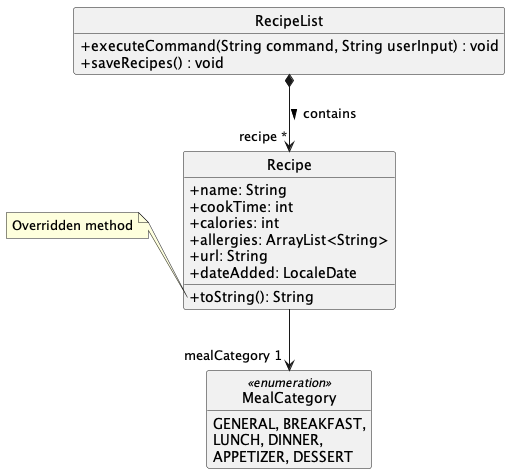
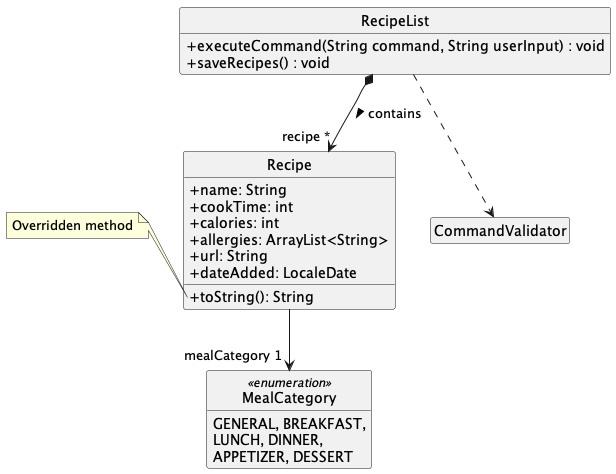
Add more class diagrams

diff --git a/docs/DeveloperGuide.md b/docs/DeveloperGuide.md
@@ -23,7 +23,7 @@
 
 ## Setting up, getting started
 
-Refer to the User guide at https://ay2324s2-cs2113-w14-2.github.io/tp/UserGuide.html for how to get started with RecipeIO.
+Refer to the [User guide](https://ay2324s2-cs2113-w14-2.github.io/tp/UserGuide.html) for how to get started with RecipeIO.
 
 ---
 
@@ -100,12 +100,73 @@ The `RecipeList` contains many `Recipe`s, which has attributes:
 How the component works:
 
 * Upon `executeCommand` call, the `RecipeList` will identify the command given in the user input (e.g. `list`), 
-* It will then call the corresponding `list()` method defined in `RecipeList`. 
-* This `list()` method in turn calls the `ListRecipeCommand.execute()` command. 
+* It will then call the corresponding `listRecipes()` method defined in `RecipeList`. 
+* This `listRecipes()` method will first call the `isValidListCommand` method in `CommandValidator` class.
+* If the command is valid, the `ListRecipeCommand.execute()` command is called. 
 * The reason for such a structure is to allow for command validation *before* the real execution. A good example is the `find()` command. 
 * Thus, `RecipeList` contains an intermediate method for each functionality (add, find, delete, so on) , and serves as a command validator.
   * **Note:** these methods have been omitted in the class diagram for brevity.
 * In `add()` and `delete()`, the `saveRecipes()` method is called to save the recipeBook after the modification.
+
+
+### InputParser Component
+
+The **API** of this component is specified in [InputParser.java](https://github.com/AY2324S2-CS2113-W14-2/tp/blob/master/src/main/java/recipeio/InputParser.java)
+
+![Structure of the InputParser Component](images/InputParserDiagram.png)
+
+The `InputParser` contains many static methods that are used to make sense of the user's input. Some important methods are:
+* `parseCommand(userInput)` : String 
+  * gets the command type from the user input. e.g. `add`, `delete`
+* `parseDetails(userInput)` : String[] 
+  * gets the parameters that the user gave in his or her input.
+  * for example, if the user inputs `find kw pasta`, the method will return `["kw", "pasta"]`
+* `parseMealCriteria(userInput)` : MealCategory
+   * checks which meal category the user inputted.
+
+How the component works:
+
+* The `InputParser` methods are called during command validation (see next Section for `CommandValidator` implementation)
+
+
+### CommandValidator Component
+
+The **API** of this component is specified in [CommandValidator.java](https://github.com/AY2324S2-CS2113-W14-2/tp/blob/master/src/main/java/recipeio/CommandValidator.java)
+
+![Structure of the CommandValidator Component](images/CommandValidatorDiagram.png)
+
+The `CommandValidator` contains many static methods that are used to validate the user's input. Some important methods are:
+* `isValidAddCommand(userInput)` : boolean
+* `isValidDetailCommand(userInput)` : boolean
+* `isValidDeleteCommand(userInput)` : boolean
+* `isValidFindCommand(userInput)` : boolean
+
+For example the `isValidDeleteCommand` will return `false` if one of the following happens.
+1. the user does not input an index to find. e.g. `delete`
+2. the user's inputted index is not a integer. e.g. `delete abc`
+3. the user inputs an index that is out of range. e.g. `delete -1`, or `delete 10` when there are only 3 recipes.
+
+How the component works:
+
+* The `CommandValidator` methods are called by methods in the `RecipeList` component to verify the user's input.
+* Methods in `InputParser` are called to make sense of the user's input.
+
+
+### Storage Component
+
+The **API** of this component is specified in [Storage.java](https://github.com/AY2324S2-CS2113-W14-2/tp/blob/master/src/main/java/recipeio/storage/Storage.java)
+
+![Structure of the Storage Component](images/StorageDiagram.png)
+
+The `Storage` class handles the saving and loading of data file (i.e. the recipe book). Some important methods are:
+* `saveFile(ArrayList<Recipe> recipeList))` : void
+* `loadData()` : void
+
+How the component works:
+
+* Upon start up of `RecipeIO`, an instance of `Storage` is created, and the app attempts to read an existing data file via the `loadData()` method.
+* If no file is found, the application will create one upon execution of `add` command.
+* The `list`, `add`, and `delete` methods in `RecipeList` will call the `saveFile` method to write into the data file.
 
 ---
 
